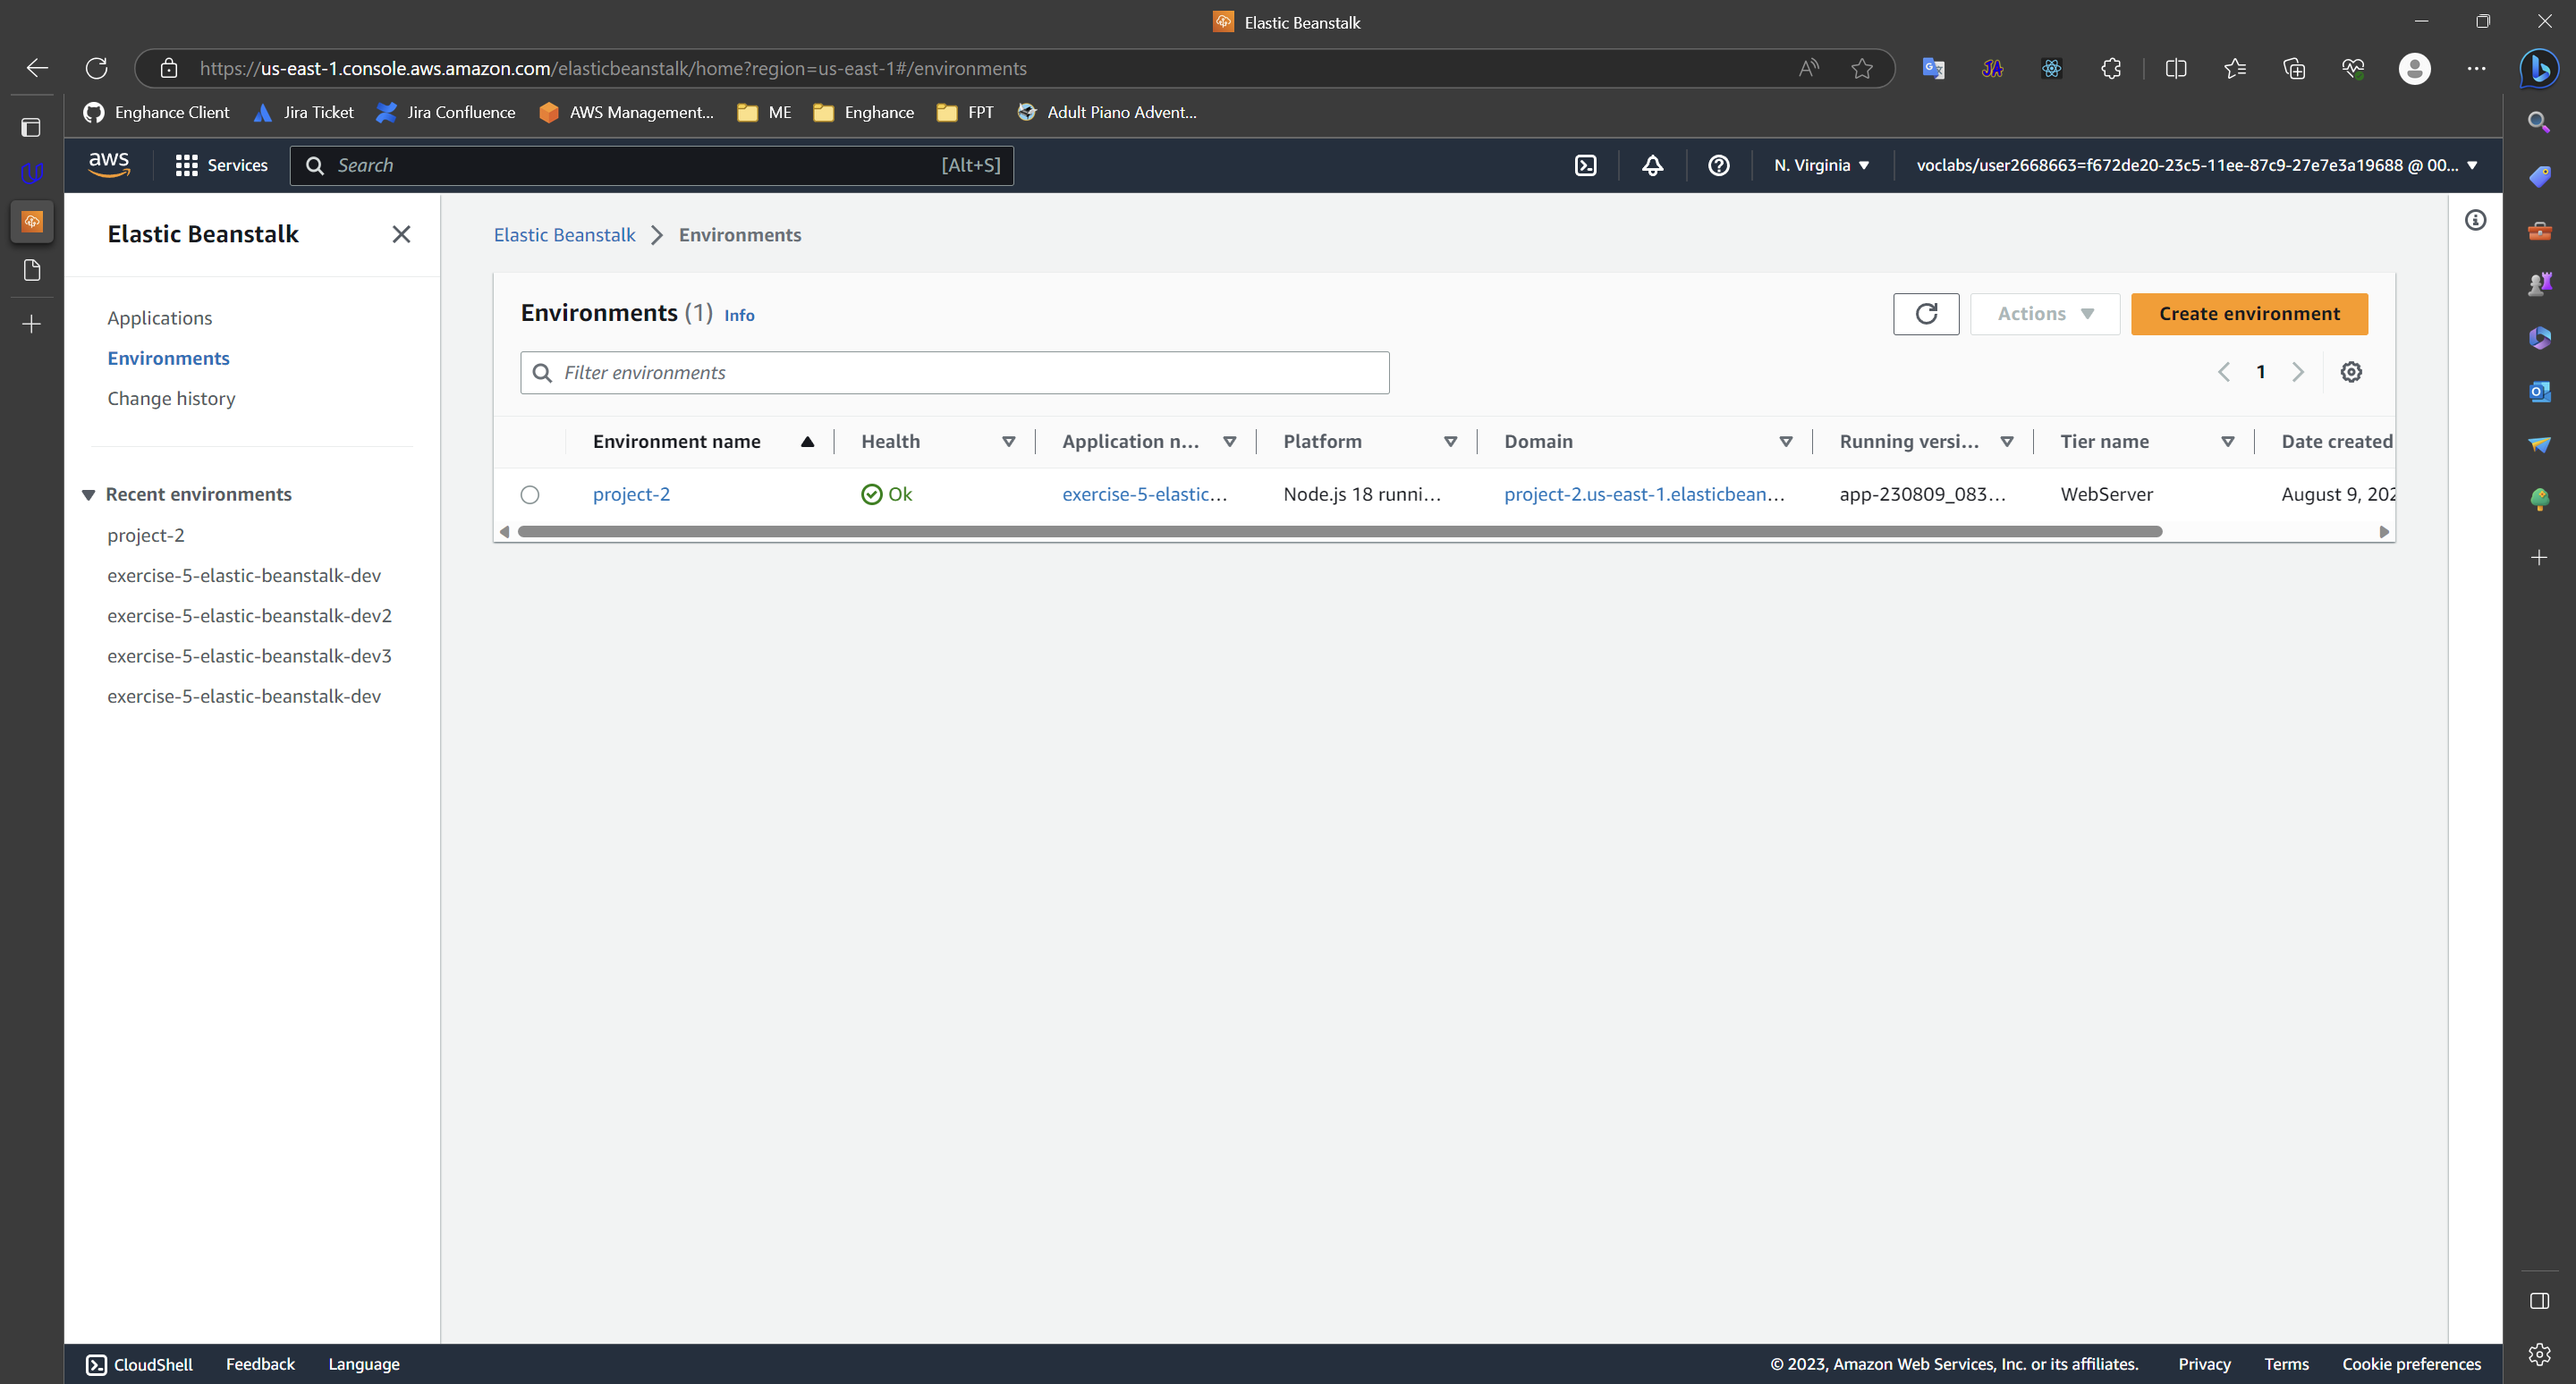
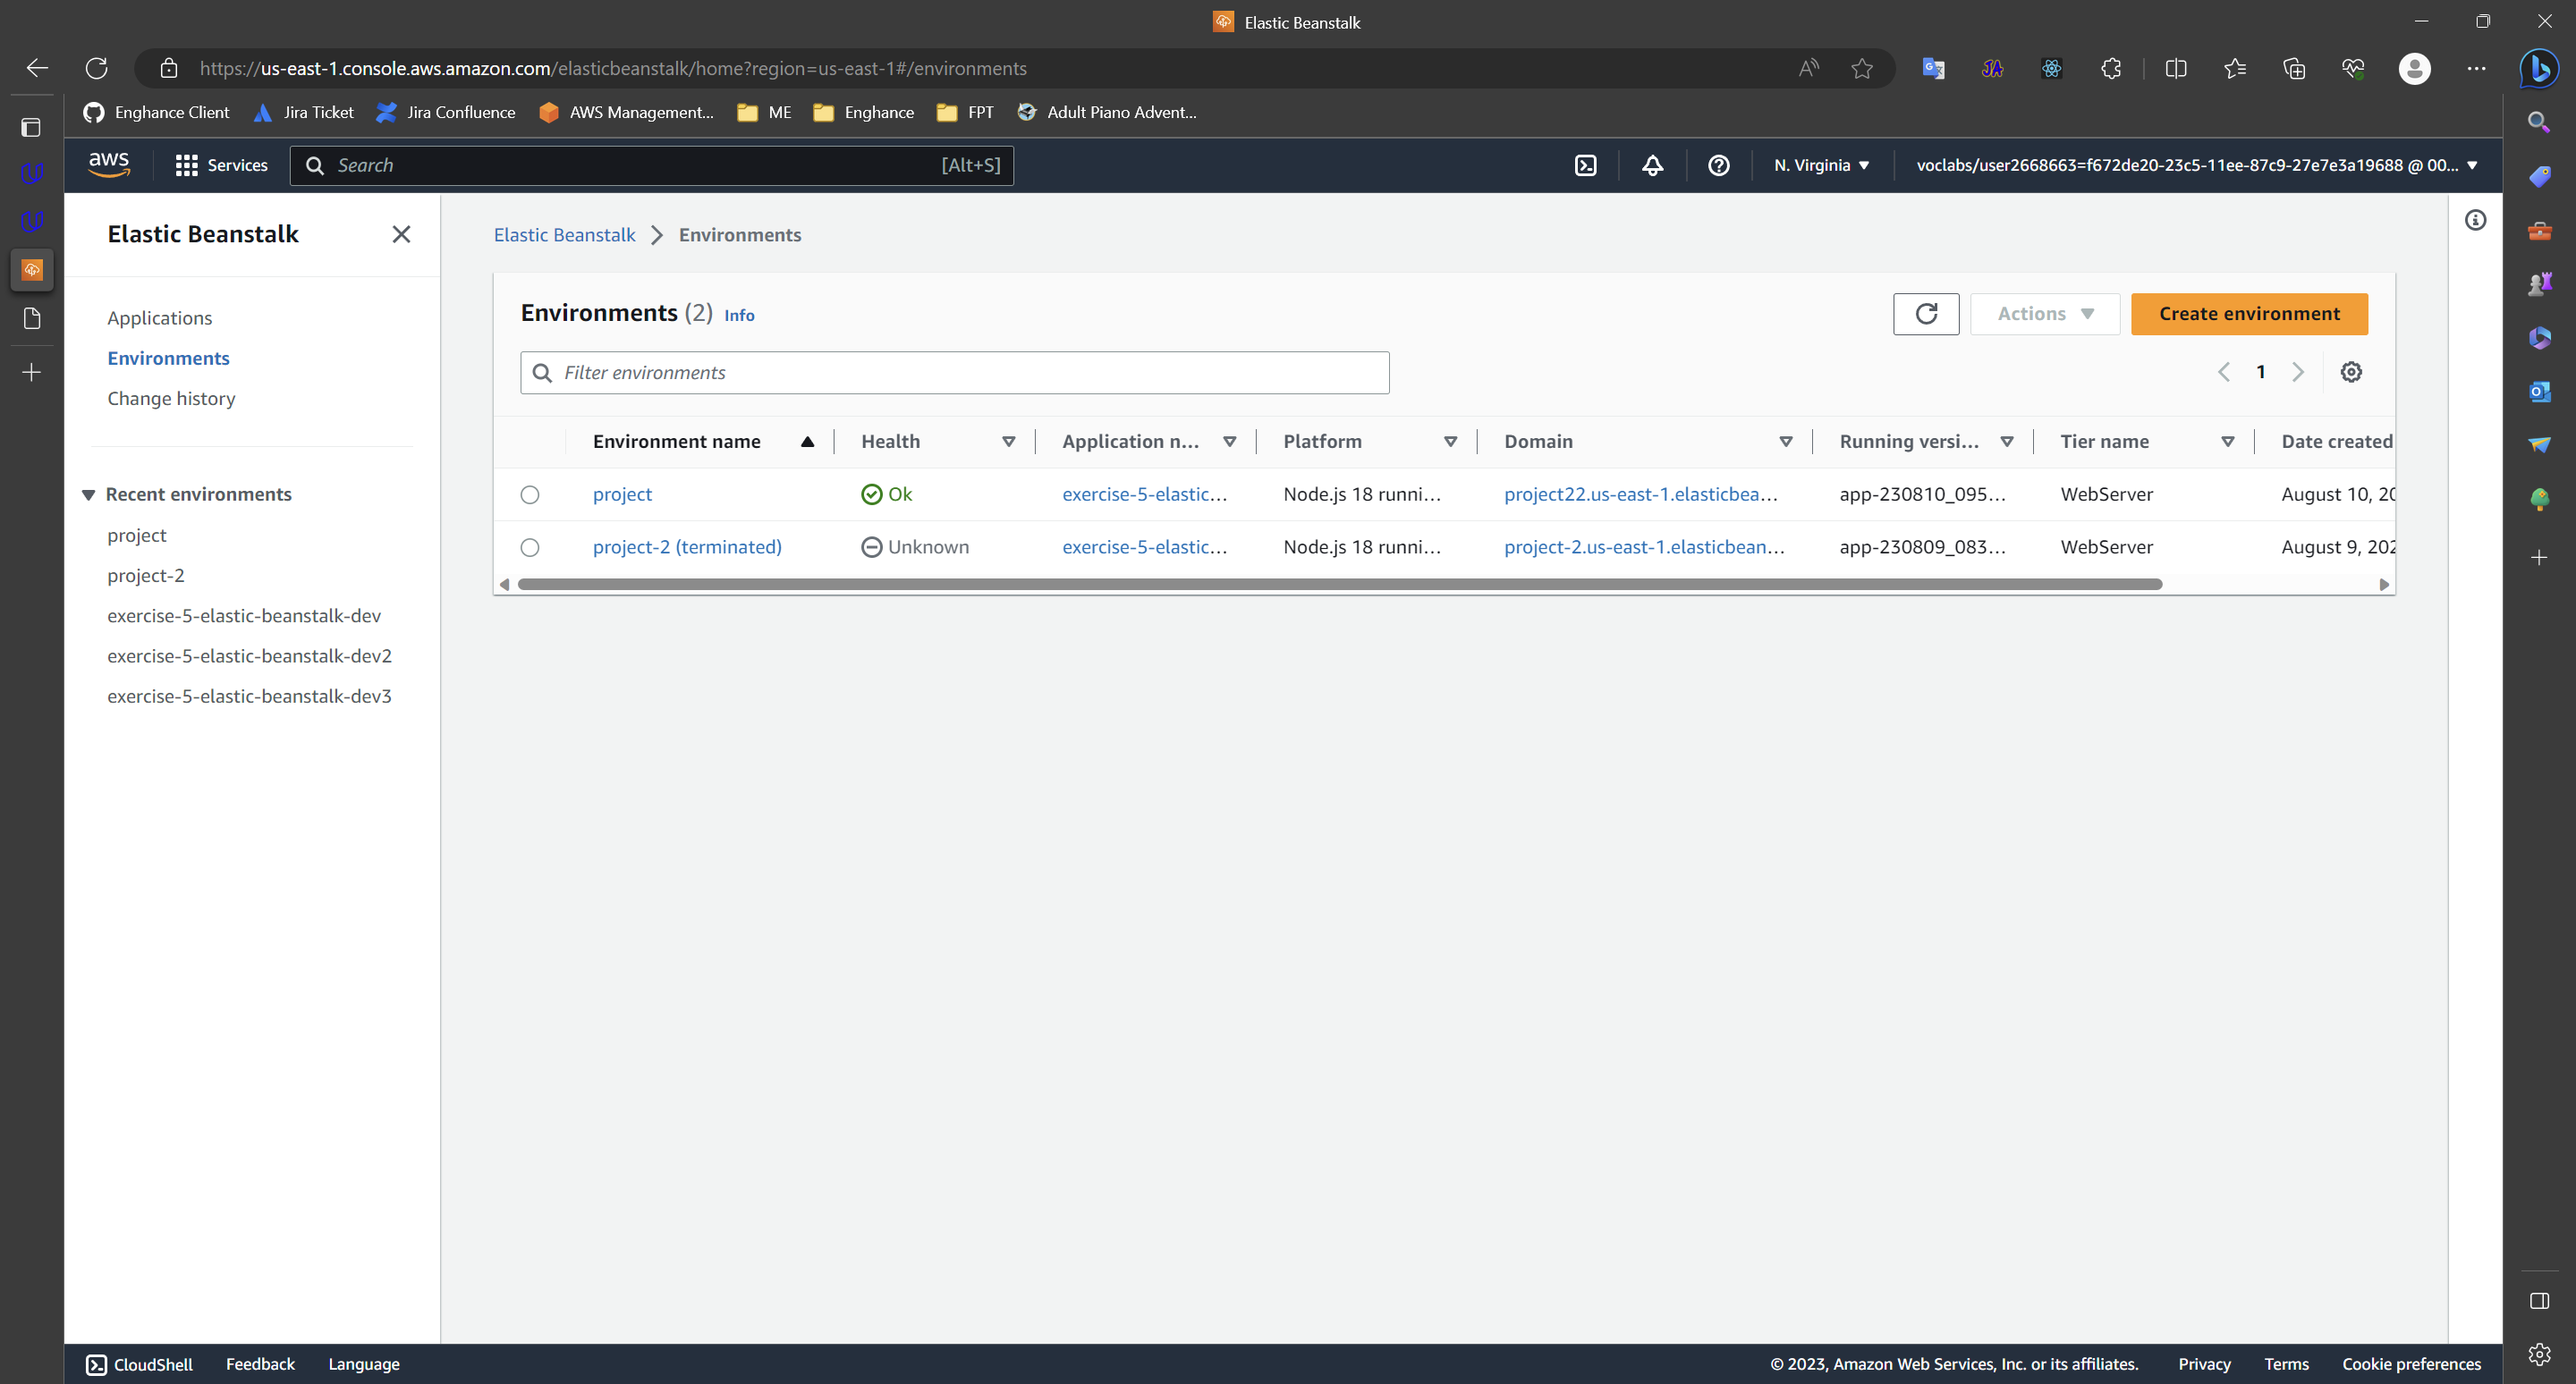
Update img

diff --git a/README.md b/README.md
@@ -25,4 +25,4 @@ Successful URL responses should have a 200 code. Ensure that you include error c
 
 
 ## URL
-http://project-2.us-east-1.elasticbeanstalk.com/
+http://project22.us-east-1.elasticbeanstalk.com/
